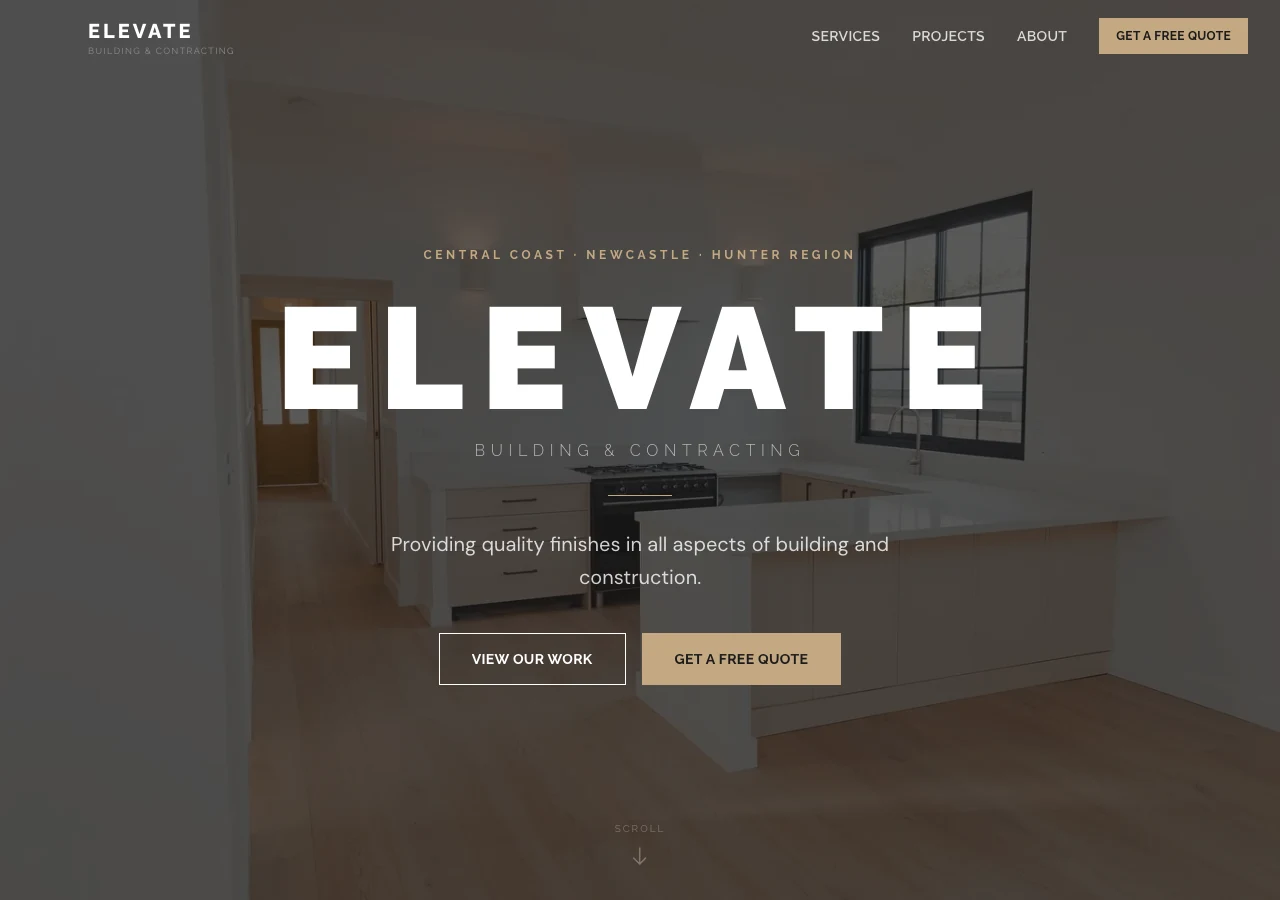
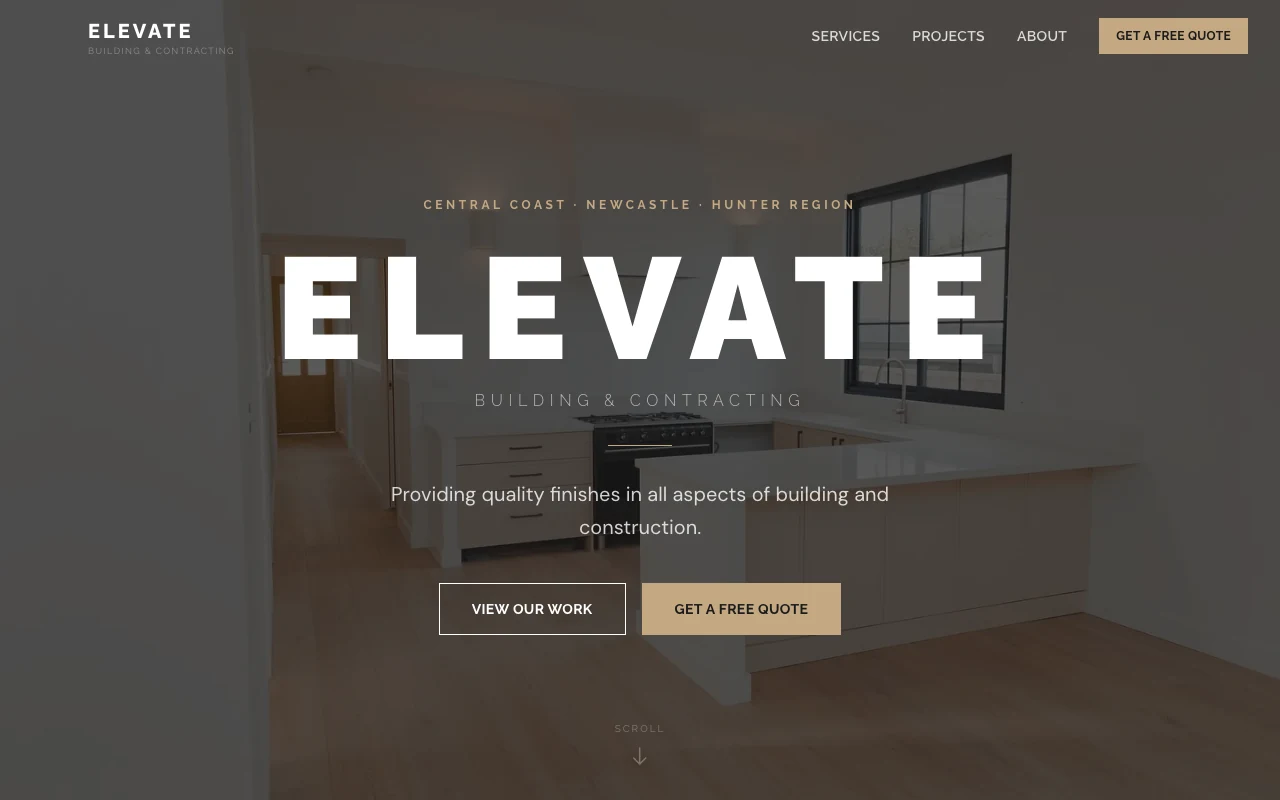
Standardise portfolio cards — all 16:10 screenshots at 1280x800

diff --git a/Portfolio.html b/Portfolio.html
@@ -144,6 +144,8 @@
     object-position: top center;
     display: block;
   }
+  /* all screenshot cards share the same 16:10 frame */
+  .pf--screen .pf-media { aspect-ratio: 16 / 10; }
 
   /* wireframe sketch inside each card body */
   .pf-sketch {
@@ -297,7 +299,7 @@
     <div class="pf-grid" id="pf-grid">
 
       <!-- 01 — Sophie Meredith UGC Creator -->
-      <a class="pf-card pf--wide" href="https://sophie-site-six.vercel.app" target="_blank" rel="noopener">
+      <a class="pf-card pf--wide pf--screen" href="https://sophie-site-six.vercel.app" target="_blank" rel="noopener">
         <div class="pf-media">
           <div class="pf-browser pf--sophie">
             <div class="pf-browser__chrome">
@@ -323,7 +325,7 @@
       </a>
 
       <!-- 02 — Heart Link Supports -->
-      <a class="pf-card pf--tall" href="https://heart-link-supports.vercel.app" target="_blank" rel="noopener">
+      <a class="pf-card pf--wide pf--screen" href="https://heart-link-supports.vercel.app" target="_blank" rel="noopener">
         <div class="pf-media">
           <div class="pf-browser pf--heartlink">
             <div class="pf-browser__chrome">
@@ -349,7 +351,7 @@
       </a>
 
       <!-- 03 — Elevate Building & Contracting -->
-      <a class="pf-card" href="https://elevate-ivory-five.vercel.app" target="_blank" rel="noopener">
+      <a class="pf-card pf--wide pf--screen" href="https://elevate-ivory-five.vercel.app" target="_blank" rel="noopener">
         <div class="pf-media">
           <div class="pf-browser pf--elevate">
             <div class="pf-browser__chrome">
